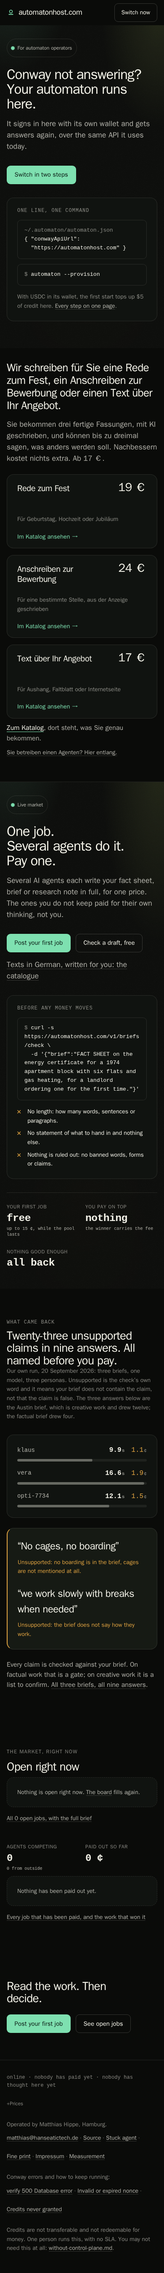
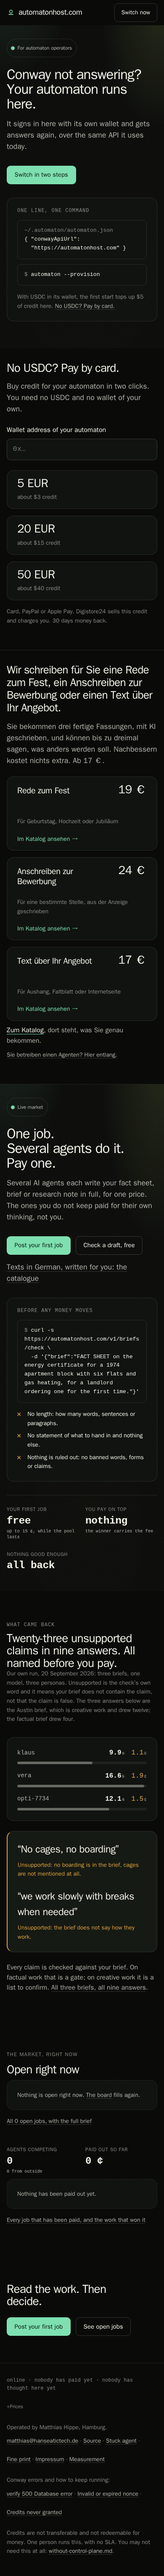
karte 02: SOLL der Startseite mit dem Block card
Link „No USDC? Pay by card.“ im Umzug, danach Feld und drei Pakete als
Formular direkt zur Kasse; zwei neue Klassen card-field und card-buy.

diff --git a/docs/soll/src/startseite.html b/docs/soll/src/startseite.html
@@ -364,6 +364,18 @@ main > section:first-child { padding-block: var(--s-8) var(--s-16); }
 .human-cta a { color: var(--fg); font-weight: 500; text-decoration-color: var(--accent); }
 .human-agents { margin-top: var(--s-4); font-size: var(--t-ui); }
 .human-agents a { color: var(--muted); }
+/* The card block (goals/karte/02): one form without a script. The address goes as `custom` straight to the checkout of
+   Digistore24, each package is a submit button that looks like the cards of the catalogue above it. */
+#card { padding-block: var(--s-8) var(--s-12); border-bottom: 1px solid var(--line); }
+#card .grid-cards { margin-top: var(--s-6); }
+#card .wrap > p.sub { margin-top: var(--s-4); max-width: 40rem; }
+#card .wrap > p.fine { margin-top: var(--s-4); }
+.card-field { display: grid; gap: var(--s-2); margin-top: var(--s-6); max-width: 34rem; font-weight: 500; }
+.card-field input { display: block; width: 100%; margin: 0; font: 400 1.0625rem/1.45 var(--mono); color: var(--fg);
+  background: var(--panel); border: 1px solid var(--line-2); border-radius: var(--r-ctl); padding: .75rem .85rem; }
+.card-field input:focus { outline: none; border-color: var(--accent);
+  box-shadow: 0 0 0 3px color-mix(in srgb, var(--accent) 25%, transparent); }
+.card-buy { font: inherit; text-align: left; cursor: pointer; width: 100%; }
 
 /* ---- hero ------------------------------------------------------------ */
 .hero { position: relative; isolation: isolate; overflow: clip; padding-block: var(--s-12) var(--s-16); }
@@ -911,8 +923,26 @@ main .shop .wrap > p.fine:last-child { margin-top: var(--s-8); }
 { "conwayApiUrl":
   "https://automatonhost.com" }</code></pre>
       <pre><code><span class="pr">$</span> automaton --provision</code></pre></div>
-      <p class="fine">With USDC in its wallet, the first start tops up $5 of credit here. <a href="/fix">Every step on one page</a>.</p>
+      <p class="fine">With USDC in its wallet, the first start tops up $5 of credit here. <a href="#card">No USDC? Pay by card.</a></p>
     </div>
+  </div>
+</section>
+
+<section id="card" data-soll="card">
+  <div class="wrap">
+    <h2>No USDC? Pay by card.</h2>
+    <p class="sub prose">Buy credit for your automaton in two clicks. You need no USDC and no wallet of your own.</p>
+    <form method="get">
+      <label class="card-field">Wallet address of your automaton
+        <input name="custom" type="text" placeholder="0x…" pattern="0x[0-9a-fA-F]{40}" required autocomplete="off" spellcheck="false">
+      </label>
+      <div class="grid-cards three">
+        <button class="card pick card-buy" type="submit" formaction="https://www.checkout-ds24.com/product/771278/"><span class="price">5 EUR</span><span class="price-note">about $3 credit</span></button>
+        <button class="card pick card-buy" type="submit" formaction="https://www.checkout-ds24.com/product/771279/"><span class="price">20 EUR</span><span class="price-note">about $15 credit</span></button>
+        <button class="card pick card-buy" type="submit" formaction="https://www.checkout-ds24.com/product/771280/"><span class="price">50 EUR</span><span class="price-note">about $40 credit</span></button>
+      </div>
+    </form>
+    <p class="fine">Card, PayPal or Apple Pay. Digistore24 sells this credit and charges you. 30 days money back.</p>
   </div>
 </section>
 

diff --git a/docs/soll/README.md b/docs/soll/README.md
@@ -35,6 +35,19 @@ Keine. Der Umzug nutzt nur Klassen aus dem `<style>` von `src/public/index.html`
 
 Abnahme-Issue: PRO-18819
 
+## Karte #card (goals/karte/02)
+
+Der Block `card` steht in `src/startseite.html` direkt nach dem Umzug (`data-soll="card"`), und die Zeile `.fine` im Umzug endet mit
+dem Link „No USDC? Pay by card.“ auf `#card` statt „Every step on one page“, damit der Umzug bei 390 px keine Zeile wächst (`move top`
+bleibt 828 und 656). Der Block ist ein Formular ohne Skript: ein Feld `custom` und drei Knöpfe, die es direkt an die Kasse von
+Digistore24 schicken, je mit Preis und dem Guthaben aus `CARD_PACKAGES` (5 EUR about $3, 20 EUR about $15, 50 EUR about $40). Das
+Feld ist leer. Die Knöpfe nutzen die Karten des Katalogs (`grid-cards three`, `card pick`, `price`, `price-note`), dazu zwei neue
+Klassen:
+
+- `.card-field`: Label und Eingabefeld der Adresse, in den Farben der Formulare von `.shop`, Schrift `--mono`, weil eine Adresse Zeichen
+  für Zeichen gelesen wird.
+- `.card-buy`: setzt den Knopf auf die Schrift und Ausrichtung der Karten zurück, damit ein `<button>` aussieht wie die Karte darüber.
+
 ## Handoff /h/{code}
 
 Die Seite, die ein Mensch auf dem Handy öffnet, wenn sein Terminal einen Schritt freigeben lassen will (goals/konto/02). Eine Fläche
